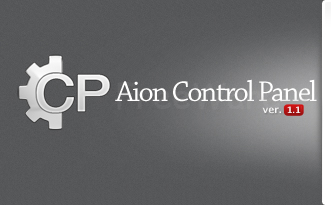
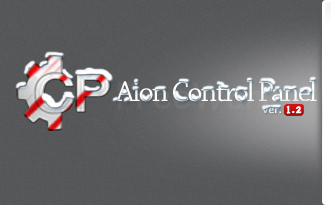
picture for new version + i18n

diff --git a/sys/i18n/en/en.php b/sys/i18n/en/en.php
@@ -15,7 +15,7 @@ $lang['menu_search']='Search';
 $lang['menu_stat']='Statistics';
 $lang['menu_exit']='Logout';
 $lang['bookmarks']='Bookmarks ';
-$lang['char_name']='by character name';
+$lang['char_name']='Character name';
 $lang['searchemail']='by email';
 $lang['no_result']='No results';
 $lang['finded']='Found: ';
@@ -223,5 +223,63 @@ $lang ['ins_encryptkey'] = 'The key used for encryption / decryption data.';
 $lang['cachedin']='Cached in';
 $lang['chartitle']='Title';
 $lang['nofriends']='No Friends';
-
 $lang['securereturned']='For security derived only 500 entries';
+$lang['pronothave']='Pro version does not yet have this feature.';
+$lang['addedindl']='Added to the droplist.';
+$lang['skillsmanager']='Work with the skills';
+$lang['skills']='Skills';
+$lang['mailmanager']='Mail Manager';
+$lang['nomails']='The character no mails.';
+$lang['ipdeleted']='IP was successfully removed.';
+$lang['accdelrop']='Are you sure you want to delete this item?';
+$lang['itemlistbyidm']='List items by id monster';
+$lang['addnewrow']='Add New Field';
+$lang['workwwithdp']='Droplist Manager';
+$lang['monsterid']='id monster';
+$lang['dlminchance']='Minimal drop item';
+$lang['dlmaxchance']='Max drop item';
+$lang['dlchance']='Drop chance item';
+$lang['add']='Add';
+$lang['chance']='Chance';
+$lang['item']='Item';
+$lang['min']='Min';
+$lang['max']='Max';
+$lang['arsure']='Are you sure?';
+$lang['delete']='Delete';
+$lang['skillid']='ID Skill';
+$lang['levelskill']='Skill level';
+$lang['acceptdelskill']='Do you really want to delete this skill?';
+$lang['skill']='Skill';
+$lang['skilllist']='Skill List';
+$lang['ipadress']='IP Adress';
+$lang['expiredban']='Ban period';
+$lang['banthis']='Ban';
+$lang['banlist']='Banlist';
+$lang['senderName']='Sender';
+$lang['RecentName']='Recent';
+$lang['mailTitle']='Title';
+$lang['recievedTime']='Date recieved';
+$lang['editannonce']='Edit announce';
+$lang['message']='Message';
+$lang['wshow']='Show for';
+$lang['type']='Type';
+$lang['timereply']='Reply time';
+$lang['addanonce']='Add Announce';
+$lang['items_title']='Items';
+$lang['enteritemname']='Enter item name ';
+$lang['itemplace']='Select Item Location: ';
+$lang['legion']='Legion';
+
+$lang['server']='Server';
+
+$lang['search_tooptip_login']='Type часть логина';
+$lang['search_tooptip_nik']='Type начало ника';
+$lang['search_tooptip_email']='Type часть email';
+$lang['search_tooptip_ip']='Type начало IP';
+
+$lang['legion_point']='Points';
+$lang['legion_404']='Legion is not found';
+$lang['legion_addtoleg']='Add to legion';
+$lang['legion_players']='Legion name';
+$lang['legion_rank']='Rank';
+$lang['legion_deletefroml']='Delete from legion';

diff --git a/sys/i18n/ru/ru.php b/sys/i18n/ru/ru.php
@@ -270,7 +270,6 @@ $lang['items_title']='Предметы';
 $lang['enteritemname']='Введите имя предмета ';
 $lang['itemplace']='Размещение предмета: ';
 $lang['legion']='Легион';
-
 $lang['server']='Сервер';
 $lang['search_tooptip_login']='Введите часть логина';
 $lang['search_tooptip_nik']='Введите начало ника';
@@ -278,6 +277,18 @@ $lang['search_tooptip_email']='Введите часть email';
 $lang['search_tooptip_ip']='Введите начало IP';
 $lang['search_tooptip_number']='Введите номер аккаунта';
 $lang['search_tooptip_numchar']='Введите номер персонажа';
+$lang['legion_point']='Очки';
+$lang['legion_404']='Нет легиона на сервере';
+$lang['legion_addtoleg']='Добавить в легион';
+$lang['legion_players']='Игроки легиона';
+$lang['legion_rank']='Ранг';
+$lang['legion_deletefroml']='Удалить из легиона';
 
-
-
+$lang['delete_account']='Удалить аккаунт';
+$lang['']='';
+$lang['']='';
+$lang['']='';
+$lang['']='';
+$lang['']='';
+$lang['']='';
+$lang['']='';

diff --git a/sys/i18n/ru/markdown.md b/sys/i18n/ru/markdown.md
@@ -1,5 +1,6 @@
-AionCP FreeWare 1.1!
+AionCP FreeWare 1.2!
 ---------------------
+#Новогодняя версия
 [MarkDown](http://ru.wikipedia.org/wiki/Markdown) *RU*
 
 by FDCore Studio

diff --git a/sys/i18n/en/markdown.md b/sys/i18n/en/markdown.md
@@ -1,5 +1,6 @@
-AionCP FreeWare 1.1!
+AionCP FreeWare 1.2!
 ---------------------
+#Christmas version
 [MarkDown](http://en.wikipedia.org/wiki/Markdown) *EN*
 
 by FDCore Studio
